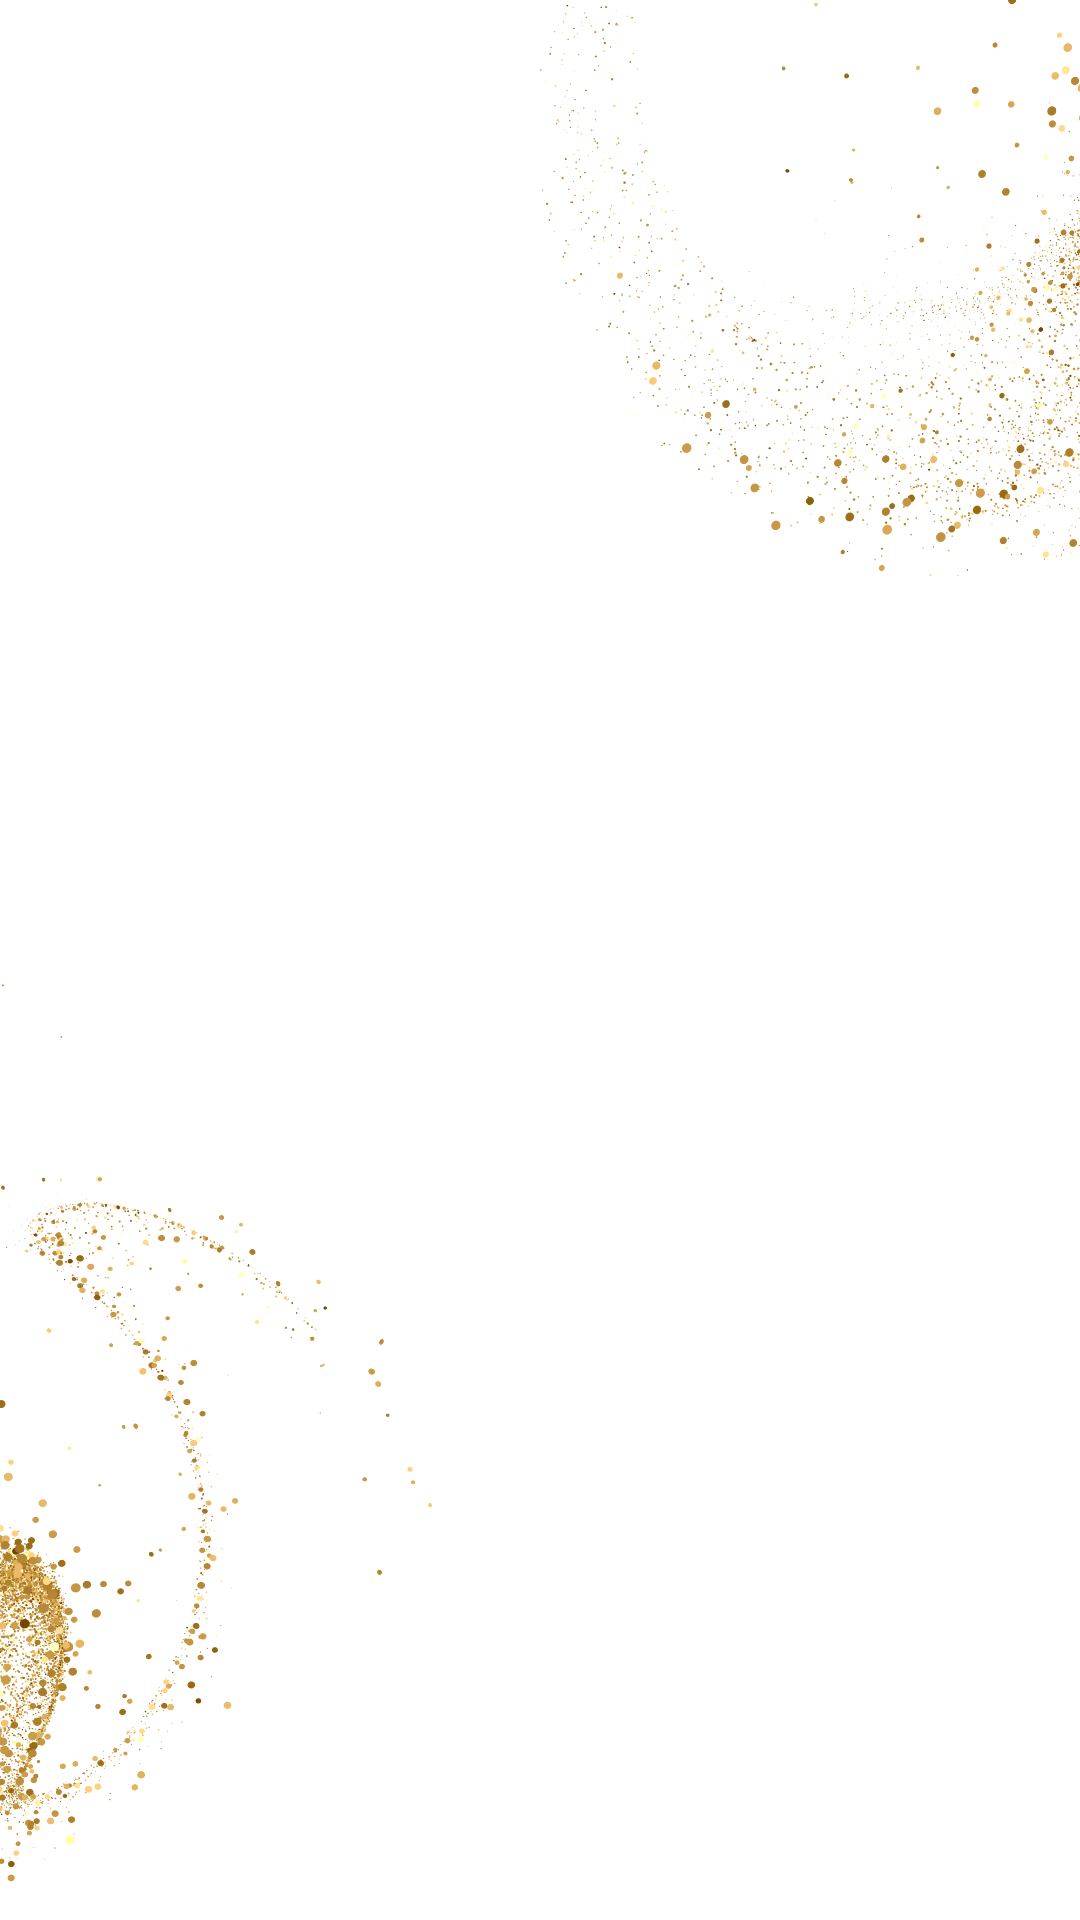
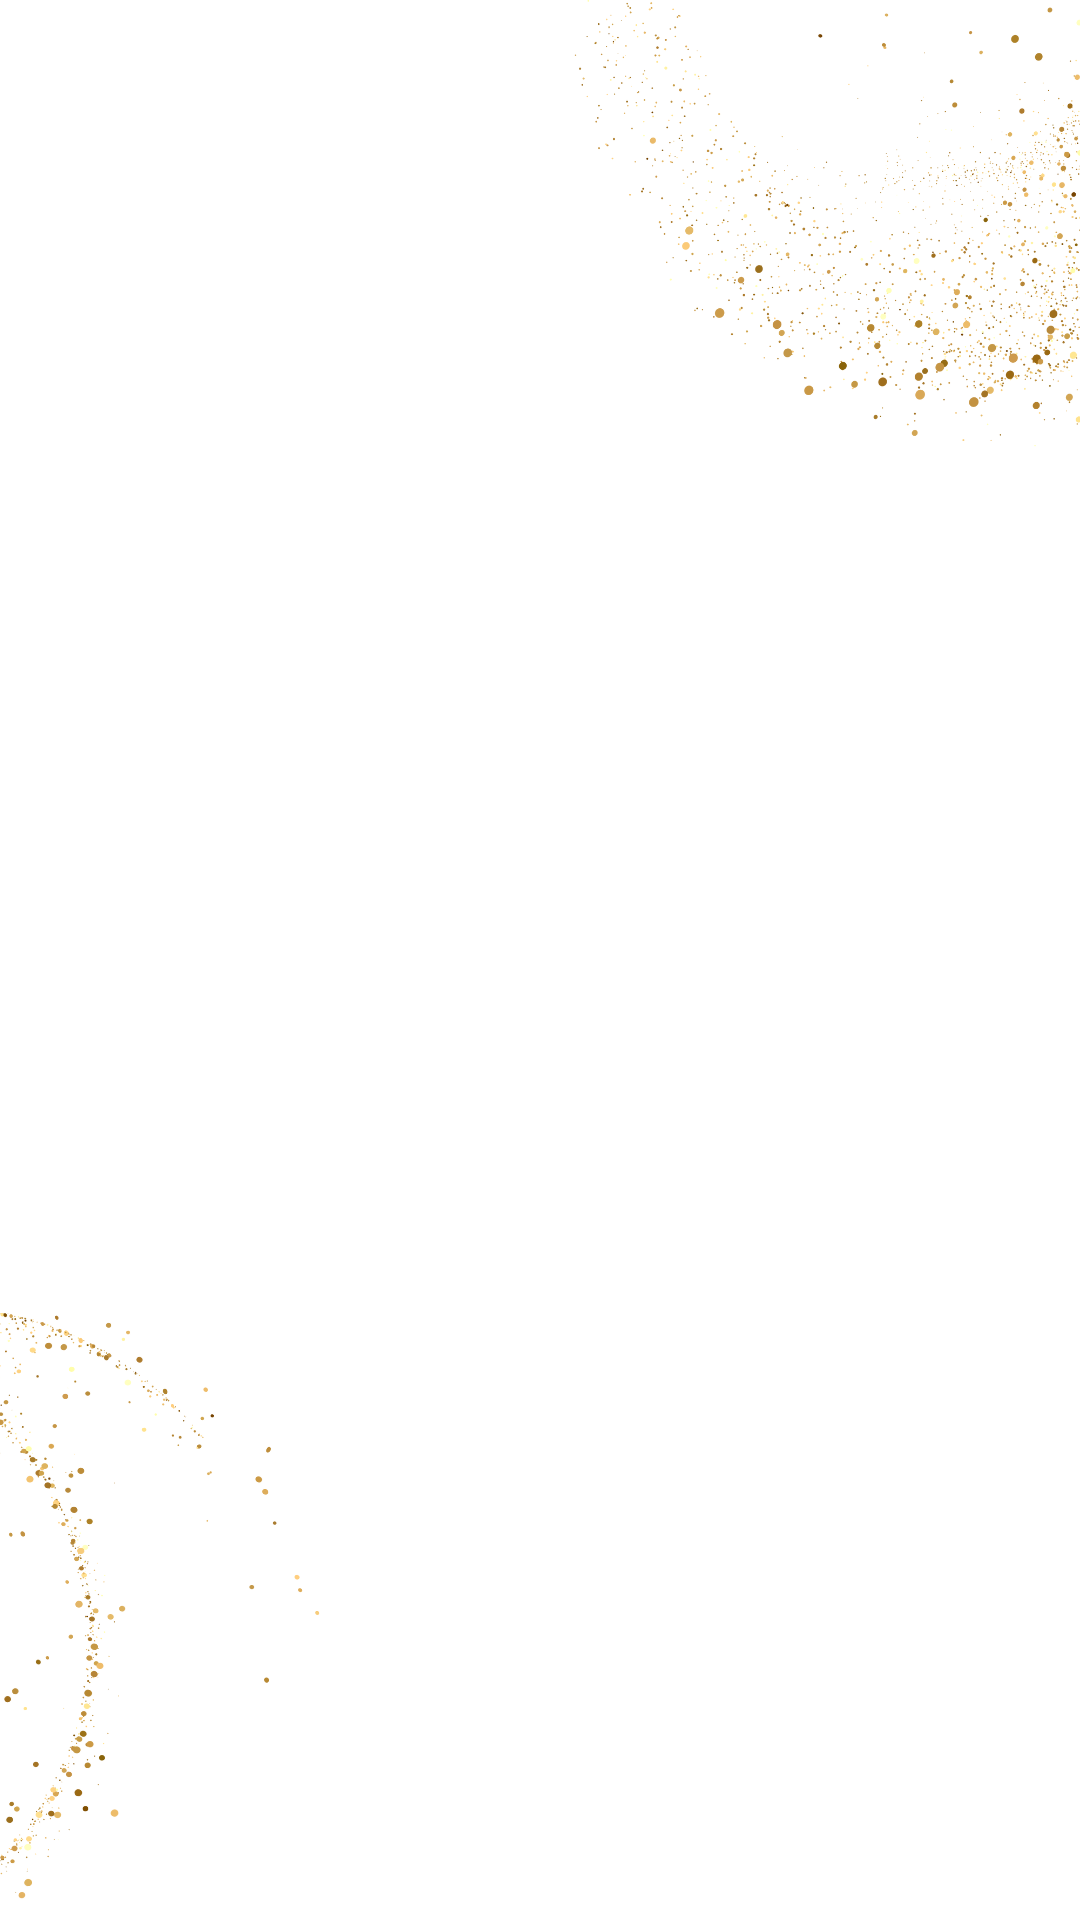
ac
ac

diff --git a/style.css b/style.css
@@ -64,7 +64,7 @@
     width: 100%;
     height: 100vh;
     max-width: 420px;
-    padding: 610px 0 0 0;
+    padding: 520px 0 0 0;
 
   }
   @keyframes texto {
